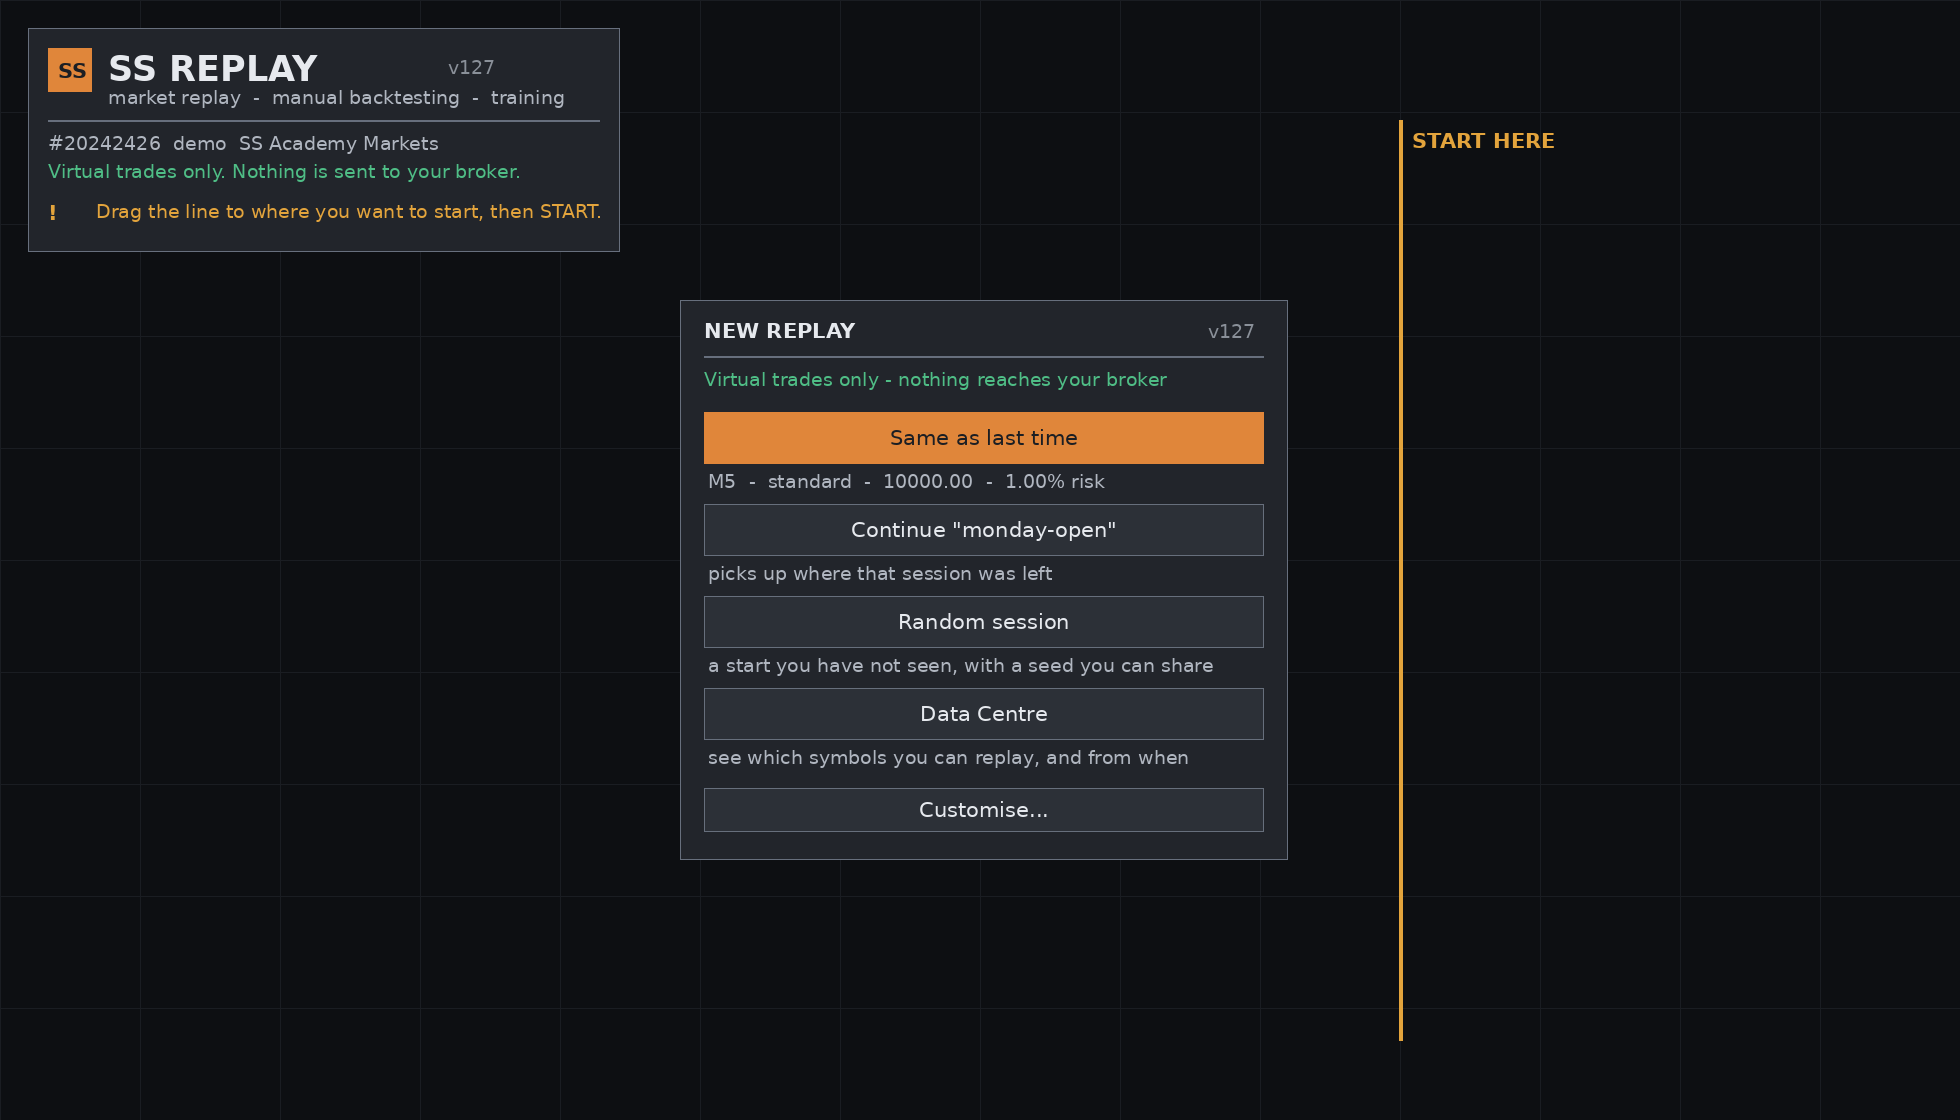
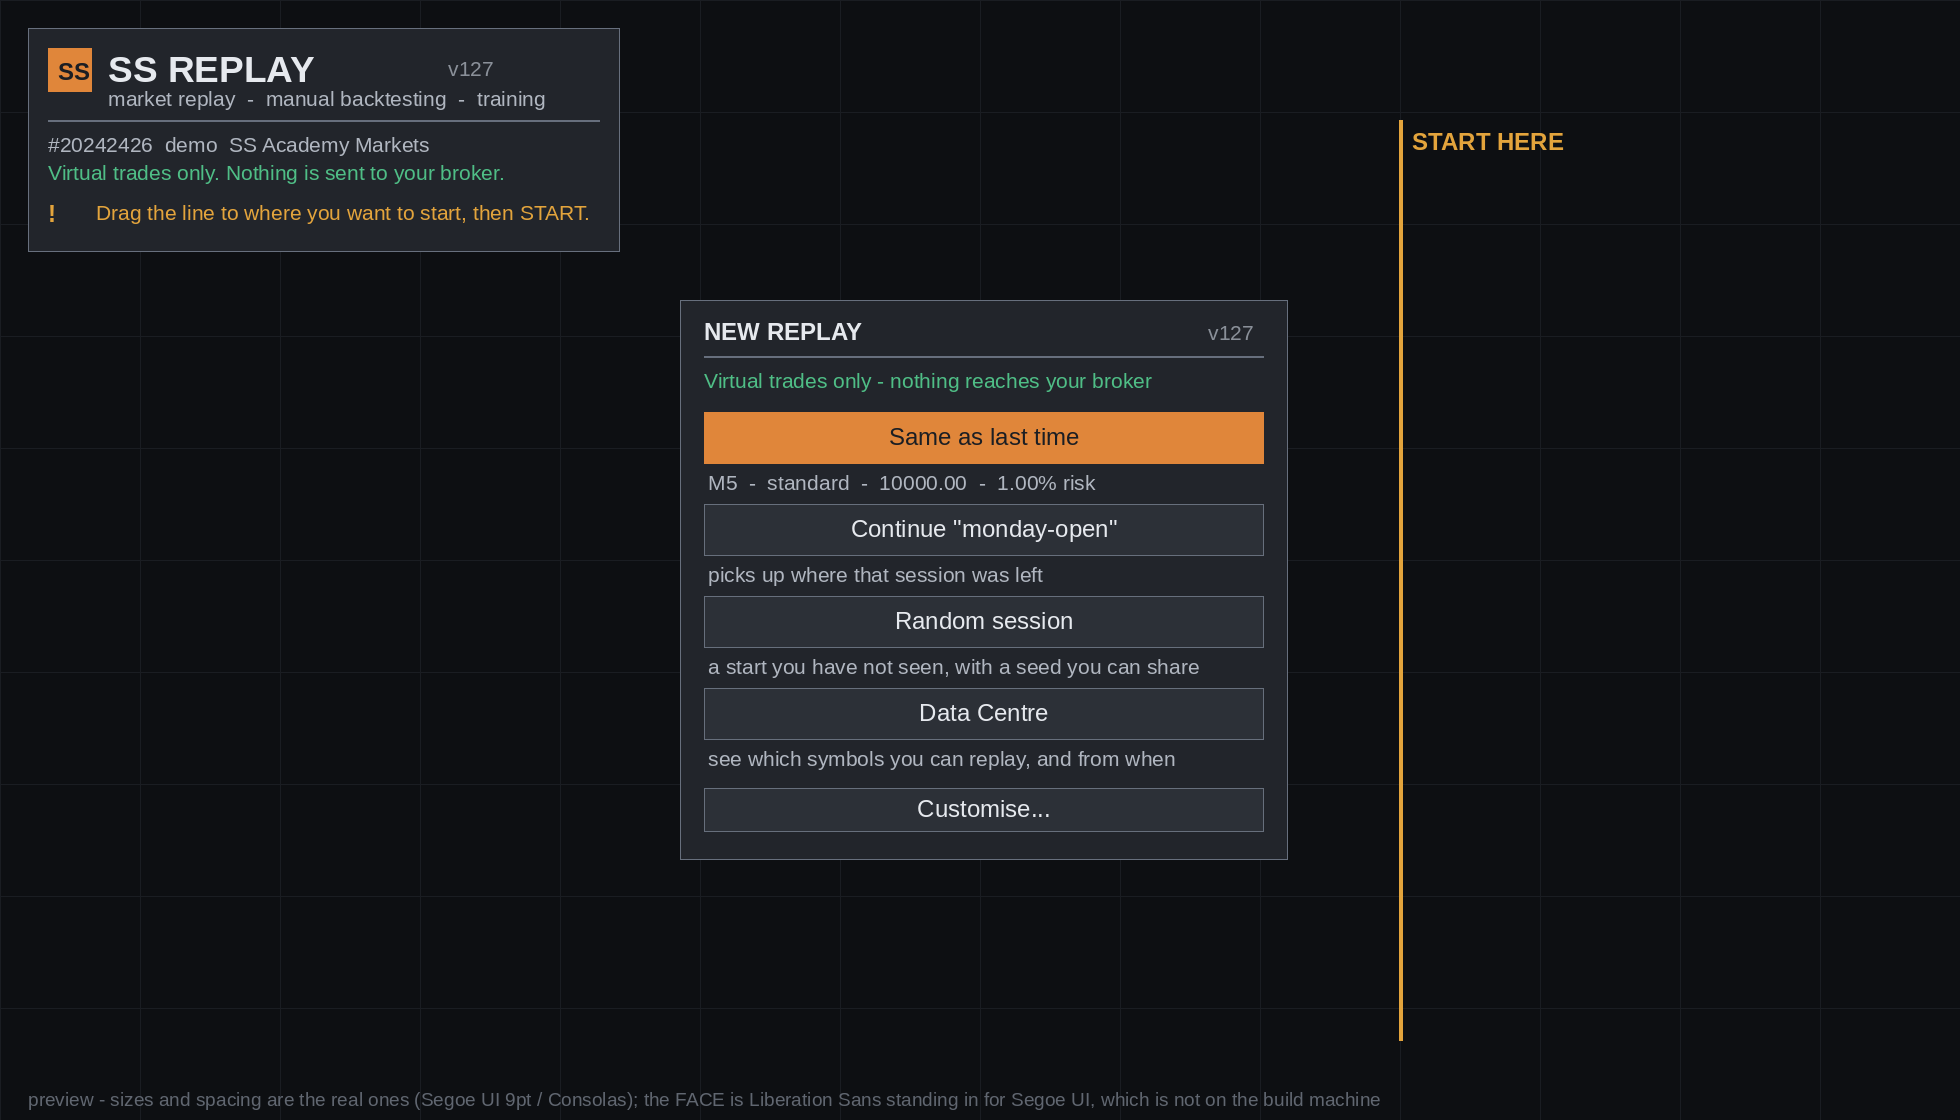
Type: Segoe UI for words, Consolas for numbers that move
Reported plainly: the font is not good, make it simple and formal.

The header of SSR_Theme.mqh already described the way out. It used to
be Segoe UI and Consolas; it was collapsed onto one face, Tahoma, for a
single property - Tahoma draws all ten digits on the same advance
width, so a clock does not jitter - and the note ended "if a terminal
ever proves otherwise it is one line to split them again."

What proved otherwise was the person using it. Tahoma reads heavy and
dated beside the native dialogs it sits next to.

  SSR_FONT       Segoe UI   what Windows itself draws every dialog in
                            since Vista, which is why it disappears
  SSR_FONT_MONO  Consolas   for the figures that change under the eye

That split is the better arrangement regardless. Alignment now rests on
a face that GUARANTEES equal advances instead of on a happy property of
a proportional one, so whether Segoe UI's own digits are tabular stops
mattering. SSR_QA_FontProbe prints the answer anyway.

SIZES WENT UP ONE POINT, AND HAD TO. Tahoma carries an unusually large
x-height; Segoe UI does not, so the same numbers would have read
SMALLER than what they replaced - the opposite of the complaint. Nine
point is what Windows sets body text in. Width is near enough a wash
because Segoe UI is the narrower face.

THREE THINGS THAT WOULD HAVE BROKEN QUIETLY

1. Label fingerprinted its typeface as StringLen(font). That was safe
[…]

diff --git a/mt5-replay/tools/ssr_layout_preview.py b/mt5-replay/tools/ssr_layout_preview.py
@@ -22,6 +22,7 @@ to see what.
 
 """
 import os
+import re
 from PIL import Image, ImageDraw, ImageFont
 
 OUT = os.path.join(os.path.dirname(os.path.dirname(
@@ -38,20 +39,56 @@ C = dict(
     PRIMARY_TEXT=(27,30,35),
 )
 S = 2                                   # 2x so the text is readable here
-F = "/usr/share/fonts/truetype/dejavu/DejaVuSans.ttf"
-FB = "/usr/share/fonts/truetype/dejavu/DejaVuSans-Bold.ttf"
+
+#--- THE SIZES ARE READ, NOT COPIED. A preview carrying its own idea of
+#--- how big the type is stops being a preview the first time the theme
+#--- changes, and does it silently.
+THEME = os.path.join(os.path.dirname(os.path.dirname(os.path.abspath(__file__))),
+                     "MQL5", "Include", "SSReplay", "Ui", "SSR_Theme.mqh")
+PT = {}
+FACE = {}
+for _line in open(THEME, encoding="utf-8"):
+    m = re.match(r"\s*#define\s+(SSR_FS_[A-Z]+)\s+(\d+)", _line)
+    if m:
+        PT[m.group(1)] = int(m.group(2))
+    m = re.match(r'\s*#define\s+(SSR_FONT(?:_MONO)?)\s+"([^"]+)"', _line)
+    if m:
+        FACE[m.group(1)] = m.group(2)
+
+#--- SEGOE UI IS NOT ON THIS MACHINE and there is no faithful free
+#--- substitute for it. Liberation Sans is the closest thing installed -
+#--- Arial metrics, so a little WIDER than Segoe UI, never narrower,
+#--- which makes this preview pessimistic about fit rather than
+#--- flattering. The image says so at the bottom; do not read letterform
+#--- detail off it, only size, spacing and whether things collide.
+F  = "/usr/share/fonts/truetype/liberation/LiberationSans-Regular.ttf"
+FB = "/usr/share/fonts/truetype/liberation/LiberationSans-Bold.ttf"
+FM = "/usr/share/fonts/truetype/dejavu/DejaVuSansMono.ttf"
+
 # MQL5 font sizes are points; at 96dpi a point is 4/3 of a pixel.
-def f(pt, bold=False): return ImageFont.truetype(FB if bold else F, int(round(pt*4/3*S)))
+def f(pt, bold=False, mono=False):
+    return ImageFont.truetype(FM if mono else (FB if bold else F),
+                              int(round(pt*4/3*S)))
 
 def rect(d,x,y,w,h,bg,edge):
     d.rectangle([x*S,y*S,(x+w)*S-1,(y+h)*S-1], fill=bg, outline=edge, width=max(1,S//2))
-def label(d,x,y,t,col,pt=8,bold=False):
-    d.text((x*S,y*S), t, fill=col, font=f(pt,bold))
-def button(d,x,y,w,h,t,bg=None,edge=None,fg=None,pt=8):
+def label(d,x,y,t,col,pt=None,bold=False,mono=False):
+    d.text((x*S,y*S), t, fill=col, font=f(pt or PT['SSR_FS_BODY'],bold,mono))
+def button(d,x,y,w,h,t,bg=None,edge=None,fg=None,pt=None):
     bg=bg or C['BTN']; edge=edge or C['BTN_EDGE']; fg=fg or C['BTN_TEXT']
     rect(d,x,y,w,h,bg,edge)
-    ft=f(pt); tw=d.textlength(t,font=ft)
+    ft=f(pt or PT['SSR_FS_BODY']); tw=d.textlength(t,font=ft)
     d.text((x*S+(w*S-tw)/2, y*S+(h*S-ft.size*1.25)/2), t, fill=fg, font=ft)
+
+def caption(im):
+    d = ImageDraw.Draw(im)
+    d.text((14*S, (CH-16)*S),
+           "preview - sizes and spacing are the real ones (%s %dpt / %s); "
+           "the FACE is Liberation Sans standing in for %s, which is not on "
+           "the build machine"
+           % (FACE.get('SSR_FONT','?'), PT['SSR_FS_BODY'],
+              FACE.get('SSR_FONT_MONO','?'), FACE.get('SSR_FONT','?')),
+           fill=(96,102,112), font=f(7))
 
 CW, CH = 980, 560                        # a chart-sized canvas
 def chart():
@@ -66,15 +103,15 @@ def splash(d, status, col):
     X,Y,W,H = 14,14,296,112                      # SSR_SPLASH_*
     rect(d,X,Y,W,H,C['PANEL'],C['PANEL_EDGE'])
     rect(d,X+10,Y+10,22,22,C['ACCENT'],C['ACCENT'])
-    label(d,X+15,Y+15,"SS",C['PRIMARY_TEXT'],8,True)
-    label(d,X+40,Y+10,"SS REPLAY",C['TEXT'],13,True)
-    label(d,X+40,Y+29,"market replay  -  manual backtesting  -  training",C['TEXT_DIM'],7)
+    label(d,X+15,Y+15,"SS",C['PRIMARY_TEXT'],PT['SSR_FS_BODY'],True)
+    label(d,X+40,Y+10,"SS REPLAY",C['TEXT'],PT['SSR_FS_CLOCK'],True)
+    label(d,X+40,Y+29,"market replay  -  manual backtesting  -  training",C['TEXT_DIM'],PT['SSR_FS_SMALL'])
     rect(d,X+10,Y+46,W-20,1,C['GROUP_EDGE'],C['GROUP_EDGE'])
-    label(d,X+10,Y+52,"#20242426  demo  SS Academy Markets",C['TEXT_DIM'],7)
-    label(d,X+10,Y+66,"Virtual trades only. Nothing is sent to your broker.",C['RUN'],7)
-    label(d,X+W-86,Y+14,"v127",C['TEXT_FAINT'],7)
-    label(d,X+10,Y+86,"!",C['HOLD'],8,True)
-    label(d,X+34,Y+86,status,col,7)
+    label(d,X+10,Y+52,"#20242426  demo  SS Academy Markets",C['TEXT_DIM'],PT['SSR_FS_SMALL'])
+    label(d,X+10,Y+66,"Virtual trades only. Nothing is sent to your broker.",C['RUN'],PT['SSR_FS_SMALL'])
+    label(d,X+W-86,Y+14,"v127",C['TEXT_FAINT'],PT['SSR_FS_SMALL'])
+    label(d,X+10,Y+86,"!",C['HOLD'],PT['SSR_FS_BODY'],True)
+    label(d,X+34,Y+86,status,col,PT['SSR_FS_SMALL'])
 
 # ------------------------------------------------------------------ home
 def home(d, x, y):
@@ -82,10 +119,10 @@ def home(d, x, y):
     rows = 4                                     # last + random + data + (no saved session)
     H = 34+22+rows*46+30+10
     rect(d,x,y,W,H,C['PANEL'],C['PANEL_EDGE'])
-    label(d,x+12,y+9,"NEW REPLAY",C['TEXT'],8,True)
-    label(d,x+W-40,y+10,"v127",C['TEXT_FAINT'],7)
+    label(d,x+12,y+9,"NEW REPLAY",C['TEXT'],PT['SSR_FS_BODY'],True)
+    label(d,x+W-40,y+10,"v127",C['TEXT_FAINT'],PT['SSR_FS_SMALL'])
     rect(d,x+12,y+28,W-24,1,C['GROUP_EDGE'],C['GROUP_EDGE'])
-    label(d,x+12,y+34,"Virtual trades only - nothing reaches your broker",C['RUN'],7)
+    label(d,x+12,y+34,"Virtual trades only - nothing reaches your broker",C['RUN'],PT['SSR_FS_SMALL'])
     by = y+34+22
     for t,sub,prim in [
         ("Same as last time","M5  -  standard  -  10000.00  -  1.00% risk",True),
@@ -94,7 +131,7 @@ def home(d, x, y):
         ("Data Centre","see which symbols you can replay, and from when",False)]:
         if prim: button(d,x+12,by,W-24,26,t,C['PRIMARY'],C['PRIMARY'],C['PRIMARY_TEXT'])
         else:    button(d,x+12,by,W-24,26,t)
-        label(d,x+14,by+29,sub,C['TEXT_DIM'],7)
+        label(d,x+14,by+29,sub,C['TEXT_DIM'],PT['SSR_FS_SMALL'])
         by += 46
     button(d,x+12,by+4,W-24,22,"Customise...")
     return H
@@ -106,11 +143,11 @@ DCH = 20+46+ROWS*RH+76
 def datacentre(d,x,y,data,sel,status,scanning=True):
     rect(d,x,y,DCW,DCH,C['PANEL'],C['PANEL_EDGE'])
     rect(d,x+1,y+1,DCW-2,20,C['HEADER'],C['GROUP_EDGE'])
-    label(d,x+8,y+5,"DATA CENTRE  -  WHAT THIS TERMINAL HOLDS",C['ACCENT'],9,True)
+    label(d,x+8,y+5,"DATA CENTRE  -  WHAT THIS TERMINAL HOLDS",C['ACCENT'],PT['SSR_FS_TITLE'],True)
     button(d,x+DCW-24,y+3,18,15,"X")
     hy=y+20+6
     for cx,t in [(10,"SYMBOL"),(104,"FROM"),(196,"TO"),(292,"M1 BARS"),(364,"TICKS")]:
-        label(d,x+cx,hy,t,C['TEXT_FAINT'],7)
+        label(d,x+cx,hy,t,C['TEXT_FAINT'],PT['SSR_FS_SMALL'])
     ly=hy+14
     rect(d,x+6,ly,DCW-12,ROWS*RH+4,C['WELL'],C['WELL_EDGE'])
     for r in range(ROWS):
@@ -118,16 +155,16 @@ def datacentre(d,x,y,data,sel,status,scanning=True):
         if r>=len(data): continue
         sym,fr,to,bars,tk,state = data[r]
         if r==sel: rect(d,x+7,ry,DCW-14,RH-1,C['TAB_ON'],C['ACCENT'])
-        label(d,x+12,ry+3,sym,C['TEXT'],7)
+        label(d,x+12,ry+3,sym,C['TEXT'],PT['SSR_FS_SMALL'])
         col = {'ok':C['TEXT_DIM'],'none':C['STOP'],'wait':C['HOLD'],'pend':C['TEXT_FAINT']}[state]
-        label(d,x+104,ry+3,fr,col,7)
-        label(d,x+196,ry+3,to,col,7)
-        label(d,x+292,ry+3,bars,col,7)
-        label(d,x+364,ry+3,tk,C['RUN'] if tk=="real" else C['TEXT_FAINT'],7)
+        label(d,x+104,ry+3,fr,col,PT['SSR_FS_SMALL'])
+        label(d,x+196,ry+3,to,col,PT['SSR_FS_SMALL'])
+        label(d,x+292,ry+3,bars,col,PT['SSR_FS_SMALL'])
+        label(d,x+364,ry+3,tk,C['RUN'] if tk=="real" else C['TEXT_FAINT'],PT['SSR_FS_SMALL'])
     by=ly+ROWS*RH+10
     button(d,x+DCW-62,by,24,18,"^"); button(d,x+DCW-34,by,24,18,"v")
-    label(d,x+10,y+DCH-62,status,C['TEXT_DIM'],7)
-    label(d,x+10,y+DCH-48,"Pick a symbol, then Use it to start a replay there.",C['TEXT_FAINT'],7)
+    label(d,x+10,y+DCH-62,status,C['TEXT_DIM'],PT['SSR_FS_SMALL'])
+    label(d,x+10,y+DCH-48,"Pick a symbol, then Use it to start a replay there.",C['TEXT_FAINT'],PT['SSR_FS_SMALL'])
     fy=y+DCH-22-6
     button(d,x+8,fy,86,22,"Stop" if scanning else "Read again")
     button(d,x+DCW-104,fy,96,22,"Use this symbol",C['PRIMARY'],C['PRIMARY'],C['PRIMARY_TEXT'])
@@ -149,7 +186,8 @@ im,d = chart()
 splash(d,"Drag the line to where you want to start, then START.",C['HOLD'])
 h = home(d, 340, 150)
 d.line([(700*S,60*S),(700*S,520*S)], fill=C['HOLD'], width=2*S)
-d.text((706*S,64*S),"START HERE",fill=C['HOLD'],font=f(8,True))
+d.text((706*S,64*S),"START HERE",fill=C['HOLD'],font=f(PT['SSR_FS_BODY'],True))
+caption(im)
 im.save(OUT + '/01-start.png')
 
 # screen 2 - the data centre over it
@@ -157,6 +195,7 @@ im,d = chart()
 splash(d,"Drag the line to where you want to start, then START.",C['HOLD'])
 home(d, 340, 150)
 datacentre(d,(CW-DCW)//2,(CH-DCH)//2,ROWSET,3,"reading 9 of 11...")
+caption(im)
 im.save(OUT + '/02-datacentre.png')
 
 # screen 3 - scan finished, running
@@ -167,5 +206,6 @@ datacentre(d,(CW-DCW)//2,(CH-DCH)//2,
            [r for r in ROWSET[:9]]+[("WTI","05.01.2020","03.10.2026","1.7M","real","ok"),
                                     ("SP500","14.09.2021","03.10.2026","908k","built","ok")],
            3,"9 of 11 symbols have minute history here",False)
+caption(im)
 im.save(OUT + '/03-done.png')
 print("rendered")

diff --git a/mt5-replay/tools/ssr_layout_check.py b/mt5-replay/tools/ssr_layout_check.py
@@ -76,9 +76,16 @@ def main():
     problems = []
 
     theme = defines(os.path.join(UI, "SSR_Theme.mqh"))
-    #--- a label's drawn height. Tahoma at 7pt is 9 px of glyph on a
-    #--- 12 px line; 12 is the number that matters for a collision.
-    TEXT_H = 12
+    #--- A LABEL'S DRAWN HEIGHT, DERIVED FROM THE THEME rather than
+    #--- written here. It was 12 - correct for the 7 pt small size - and
+    #--- the moment the faces changed and every size went up a point it
+    #--- would have been checking the old layout against the new one and
+    #--- passing. Points to pixels is 4/3 at 96 dpi, and a line box is
+    #--- about a quarter taller than its glyphs: 5/3 of the point size,
+    #--- rounded up, which gives 12 at 7 pt and 14 at 8 pt.
+    TEXT_H = -(-theme["SSR_FS_SMALL"] * 5 // 3)
+    print("checking at SSR_FS_SMALL = %d pt, line height %d px"
+          % (theme["SSR_FS_SMALL"], TEXT_H))
 
     #------------------------------------------------------------------
     # The data centre.
@@ -95,7 +102,7 @@ def main():
         ("headings",  hy,             TEXT_H),
         ("well",      ly,             rows * rh + 4),
         ("paging",    ly + rows * rh + 10, 18),
-        ("progress",  H - 62,         TEXT_H),
+        ("progress",  H - 66,         TEXT_H),
         ("hint",      H - 48,         TEXT_H),
         ("buttons",   H - d["SSR_BTN_H"] - 6, d["SSR_BTN_H"]),
     ], H, problems)
@@ -110,8 +117,8 @@ def main():
         ("tagline",  29, TEXT_H),
         ("rule",     46, 1),
         ("account",  52, TEXT_H),
-        ("guarantee",66, TEXT_H),
-        ("status",   86, TEXT_H),
+        ("guarantee",68, TEXT_H),
+        ("status",   88, TEXT_H),
     ], s["SSR_SPLASH_H"], problems)
 
     #------------------------------------------------------------------
